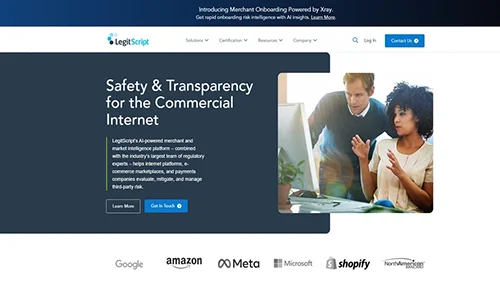
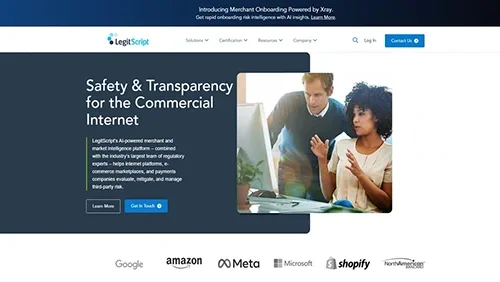
Light lettering over Orsini IT too, and stop it starting white
The white copy was showing in full from the moment the page loaded.
Its clip starts empty, and `path("")` is not merely an empty clip but
an invalid one — browsers reject the declaration outright, which left
the layer unclipped. Both the starting value and the empty case are now
a degenerate point instead.

Orsini IT is dark top to bottom, so all three lines go light over it,
where Quelliv only needs its first two. Each card that needs light
lettering now gets its own clipped copy, since a clip takes one path
and the two need different lines inked.

The badge marks and labels are a share of the badge's own rendered
width, so the small ones stretched to fill their column carry their
contents up with them. Query units measure the content box, hence
--of-badge scaling that back to a share of the whole.

The bracketed block drops 4px on a phone and 8px held sideways.

Changed region(s): [[0.15, 0.1702, 0.87, 0.8511], [0.15, 0.4823, 0.42, 0.766]]

diff --git a/src/components/landing/styles/technologies.module.scss b/src/components/landing/styles/technologies.module.scss
@@ -90,33 +90,40 @@
 /**
  * One knob drives the whole grid: every badge and its label are sized off
  * --badge-large, so the two groups keep their proportions at every width.
+ *
+ * The label sizes are a percentage of the badge rather than a length, because
+ * the small badges no longer render at exactly --badge-small: they fill their
+ * grid column so the group spans the content area, which leaves them a few
+ * percent wider. Percentages let the lettering follow whatever width the badge
+ * actually took. Each figure is that breakpoint's old length over its badge
+ * size, so nothing moves at the nominal width.
  */
 .stack {
   --badge-large: 6rem;
   --badge-small: calc(var(--badge-large) * 0.75);
   --badge-gap: 0.625rem;
-  --label-large: 0.6875rem;
-  --label-small: 0.5625rem;
+  --label-large: 11.46;
+  --label-small: 12.5;
   @apply w-full flex flex-col items-center;
 
   @media (min-width: 400px) {
     --badge-large: 7rem;
-    --label-large: 0.75rem;
-    --label-small: 0.625rem;
+    --label-large: 10.71;
+    --label-small: 11.9;
   }
 
   @media (min-width: 768px) {
     --badge-large: 5.5rem;
     --badge-gap: 0.5rem;
-    --label-large: 0.6875rem;
-    --label-small: 0.5625rem;
+    --label-large: 12.5;
+    --label-small: 13.64;
   }
 
   @media (min-width: 1024px) {
     --badge-large: 6rem;
     --badge-gap: 0.625rem;
-    --label-large: 0.75rem;
-    --label-small: 0.625rem;
+    --label-large: 12.5;
+    --label-small: 13.89;
   }
 }
 
@@ -215,14 +222,29 @@
   border border-[#263e79] border-b-sea border-r-sea rounded-br-lg;
   width: var(--badge-size);
   aspect-ratio: 1;
-  /* Sized off the badge, not a percentage: percentage padding resolves against
-     the containing block's width, which here is the whole badge column. */
+  /**
+   * A query container, so the mark and the label can be a share of the badge's
+   * own rendered width and follow one stretched to fill its column.
+   *
+   * --of-badge is one percent of that width. Query units measure the CONTENT
+   * box, so a share of the whole badge has to be scaled back up through what
+   * this rule adds around it — 84% of the width once the padding is taken, less
+   * the 2px of border, which lands a little over 81% across the sizes in use.
+   *
+   * The padding and gap cannot be written this way themselves: `cqi` on the
+   * container element resolves against the container ABOVE it, not itself, and
+   * with none there it falls back to the viewport — which blew the badge up to
+   * 204px. They stay on --badge-size, where the few percent a stretched badge
+   * gains only shows as a little more room around the mark.
+   */
+  container-type: inline-size;
+  --of-badge: 1.2207cqi;
   padding: calc(var(--badge-size) * 0.08);
   gap: calc(var(--badge-size) * 0.06);
 
   svg {
-    width: calc(var(--badge-size) * 0.36);
-    height: calc(var(--badge-size) * 0.36);
+    width: calc(36 * var(--of-badge));
+    height: calc(36 * var(--of-badge));
     flex-shrink: 0;
   }
 
@@ -233,7 +255,7 @@
 
 .label {
   @apply text-sea-light font-medium text-center;
-  font-size: var(--label-size);
+  font-size: calc(var(--label-size) * var(--of-badge));
   line-height: 1.2;
   /* break-word, not anywhere: multi word names may wrap at the space, but
      "TypeScript" must never come out as "TypeScr / ipt". */

diff --git a/src/components/landing/selfie/Selfie.tsx b/src/components/landing/selfie/Selfie.tsx
@@ -11,16 +11,21 @@ import { Socials } from '@components/landing/selfie/Socials';
 import { PullQuote } from '@components/landing/selfie/PullQuote';
 import { ScrollCue } from '@components/landing/selfie/ScrollCue';
 import { useCardSilhouette } from '@components/landing/hooks/useCardSilhouette';
+import { LightCaption } from '@components/landing/selfie/LightCaption';
 import { Project } from '@components/landing/landing.interface';
 
 /**
- * The one preview dark enough to need light lettering rather than dark. Quelliv
- * is a photograph across its middle, which is where the job title's first two
- * lines land; the third crosses onto the white panel below it and stays dark
- * like every other card's.
+ * The previews dark enough to need light lettering, and which of the job
+ * title's three lines land on the dark part of each.
+ *
+ * Quelliv is a photograph across its middle, where the first two lines fall;
+ * the third crosses onto the white panel below and stays dark like every other
+ * card's. Orsini IT is dark top to bottom, so all three go light.
  */
-const DARK_ARTWORK = [Project.quelliv] as const;
-const LINES_OVER_DARK_ARTWORK = [0, 1];
+const DARK_ARTWORK: { inked?: number[]; project: Project }[] = [
+  { project: Project.quelliv, inked: [0, 1] },
+  { project: Project.oit },
+];
 
 interface SelfieProps {
   isLandscape: boolean;
@@ -30,9 +35,6 @@ interface SelfieProps {
 export const Selfie = ({ isLandscape, onScrollDown, onShowLetter }: SelfieProps) => {
   const silhouette = useRef<HTMLDivElement>(null);
   useCardSilhouette(silhouette);
-
-  const overDarkArtwork = useRef<HTMLDivElement>(null);
-  useCardSilhouette(overDarkArtwork, DARK_ARTWORK);
 
   return (
     // Carries `landscape` too: the pull quote is sized against the stage,
@@ -54,12 +56,11 @@ export const Selfie = ({ isLandscape, onScrollDown, onShowLetter }: SelfieProps)
             <Greeting isLandscape={isLandscape} tone={'text-void'} />
             <JobTitle isLandscape={isLandscape} tone={'text-void'} />
           </div>
-          {/* And a third time in white, clipped to the one card whose artwork is
-              too dark for the copy above to be read against. Last, so it covers
-              that copy for the lines it carries. */}
-          <div ref={overDarkArtwork} className={styles.silhouette} aria-hidden>
-            <JobTitle isLandscape={isLandscape} tone={'text-latte'} inked={LINES_OVER_DARK_ARTWORK} />
-          </div>
+          {/* And once more in white for each card too dark to read the copy
+              above against. Last, so they cover it for their own lines. */}
+          {DARK_ARTWORK.map(({ inked, project }) => (
+            <LightCaption key={project} isLandscape={isLandscape} inked={inked} project={project} />
+          ))}
           {/* Hidden on purpose while we see whether the page reads cleaner
               without it — put this back to restore the waving hand. */}
           {/* <Wave isLandscape={isLandscape} /> */}

diff --git a/src/components/landing/hooks/useCardSilhouette.ts b/src/components/landing/hooks/useCardSilhouette.ts
@@ -8,6 +8,9 @@ import { Project } from '@components/landing/landing.interface';
 export const DECK_ATTR = 'data-deck';
 export const DECK_CARD_ATTR = 'data-deck-card';
 
+/** Clips a layer down to nothing. See the note where it is used. */
+export const EMPTY_CLIP = 'M 0 0 Z';
+
 /**
  * Clips an element to the silhouette of the turning cards.
  *
@@ -23,10 +26,10 @@ export const DECK_CARD_ATTR = 'data-deck-card';
  * reports screen pixels and would be wrong at every breakpoint that scales the
  * stage down.
  *
- * Pass `only` to clip to particular previews rather than all of them, which is
- * how one card whose artwork needs a different colour gets its own copy.
+ * Pass `only` to clip to a single preview rather than all of them, which is how
+ * a card whose artwork needs a different colour gets its own copy.
  */
-export const useCardSilhouette = (target: RefObject<HTMLElement | null>, only?: readonly Project[]) => {
+export const useCardSilhouette = (target: RefObject<HTMLElement | null>, only?: Project) => {
   useEffect(() => {
     const layer = target.current;
     if (!layer) return;
@@ -34,7 +37,7 @@ export const useCardSilhouette = (target: RefObject<HTMLElement | null>, only?: 
     const deck = document.querySelector<HTMLElement>(`[${DECK_ATTR}]`);
     if (!deck) return;
 
-    const selector = only ? only.map((project) => `[${DECK_CARD_ATTR}="${project}"]`).join(',') : `[${DECK_CARD_ATTR}]`;
+    const selector = only ? `[${DECK_CARD_ATTR}="${only}"]` : `[${DECK_CARD_ATTR}]`;
 
     /* The deck's perspective origin is its centre, which is also where every
        card sits before it is transformed, so one origin serves all of them. */
@@ -78,7 +81,10 @@ export const useCardSilhouette = (target: RefObject<HTMLElement | null>, only?: 
       const shapes = Array.from(cards)
         .filter((card) => getComputedStyle(card).opacity !== '0')
         .map((card) => outline(card, originX, originY));
-      layer.style.clipPath = `path("${shapes.join(' ')}")`;
+      /* A single point when nothing is showing, never the empty path: browsers
+         reject `path("")` as invalid, and a rejected clip is no clip at all —
+         the whole copy would be painted over the page. */
+      layer.style.clipPath = `path("${shapes.join(' ') || EMPTY_CLIP}")`;
     };
 
     let frame = 0;
@@ -102,7 +108,5 @@ export const useCardSilhouette = (target: RefObject<HTMLElement | null>, only?: 
       observer.disconnect();
       cancelAnimationFrame(frame);
     };
-    /* `only` is a module level constant at every call site, so it is stable. */
-    // eslint-disable-next-line react-hooks/exhaustive-deps
-  }, [target]);
+  }, [target, only]);
 };

diff --git a/src/components/landing/selfie/LightCaption.tsx b/src/components/landing/selfie/LightCaption.tsx
@@ -1,0 +1,36 @@
+'use client';
+import { useRef } from 'react';
+import styles from '../styles/selfie.module.scss';
+import { JobTitle } from '@components/landing/selfie/JobTitle';
+import { useCardSilhouette } from '@components/landing/hooks/useCardSilhouette';
+import { Project } from '@components/landing/landing.interface';
+
+interface LightCaptionProps {
+  /** Lines to paint. Omit for all of them. */
+  inked?: number[];
+  isLandscape: boolean;
+  /** The one preview this copy is clipped to. */
+  project: Project;
+}
+
+/**
+ * The job title once more in white, clipped to a single card.
+ *
+ * Most previews are light artwork the dark copy reads well against. A few are
+ * photographs, and dark lettering disappears into them — so each of those gets
+ * its own copy of the lines that land on the dark part, painted last so it
+ * covers the dark copy underneath for exactly those lines and nowhere else.
+ *
+ * One component per card rather than one layer for all of them: a clip takes a
+ * single path, and these need different lines inked from each other.
+ */
+export const LightCaption = ({ inked, isLandscape, project }: LightCaptionProps) => {
+  const layer = useRef<HTMLDivElement>(null);
+  useCardSilhouette(layer, project);
+
+  return (
+    <div ref={layer} className={styles.silhouette} aria-hidden>
+      <JobTitle isLandscape={isLandscape} tone={'text-latte'} inked={inked} />
+    </div>
+  );
+};

diff --git a/src/components/landing/styles/job-title.module.scss b/src/components/landing/styles/job-title.module.scss
@@ -34,6 +34,19 @@
      into the percentage so the offset stays fixed as the stage scales. */
   top: calc(51.39% + 5px);
   transform: translateY(-50%);
+  /* Further down again on a phone, where the block sits over a much smaller
+     card and the same fraction lands higher against the artwork. */
+  @media (max-width: 767px) {
+    top: calc(51.39% + 4px);
+  }
+
+  /* `landscape` is only ever set on a phone held sideways, so it needs no width
+     test of its own — and could not use one, since sideways the viewport is
+     wide and short. Same reason the type below ladders on height, not width. */
+  &.landscape {
+    top: calc(51.39% + 8px);
+  }
+
   /* Air between the lines, added as a gap rather than to the line-height so the
      block keeps its measured height as the type scales. */
   gap: 4px;

diff --git a/src/components/landing/styles/selfie.module.scss b/src/components/landing/styles/selfie.module.scss
@@ -395,12 +395,14 @@
  * light copies, so what shows through is dark text exactly where a card is and
  * nothing anywhere else.
  *
- * No clip until that script has run, which would flash a full dark copy over
- * the page on the first frame — so it starts clipped to nothing.
+ * Starts clipped to nothing, because until that script has run there is no clip
+ * at all and the whole copy would be painted over the page. A single point, not
+ * the empty path: browsers reject `path('')` outright, and a rejected clip
+ * leaves the layer showing in full.
  */
 .silhouette {
   @apply pointer-events-none absolute inset-0 z-10;
-  clip-path: path('');
+  clip-path: path('M 0 0 Z');
 }
 
 /* Top left wherever the icons sit in a corner, because the hamburger owns the
